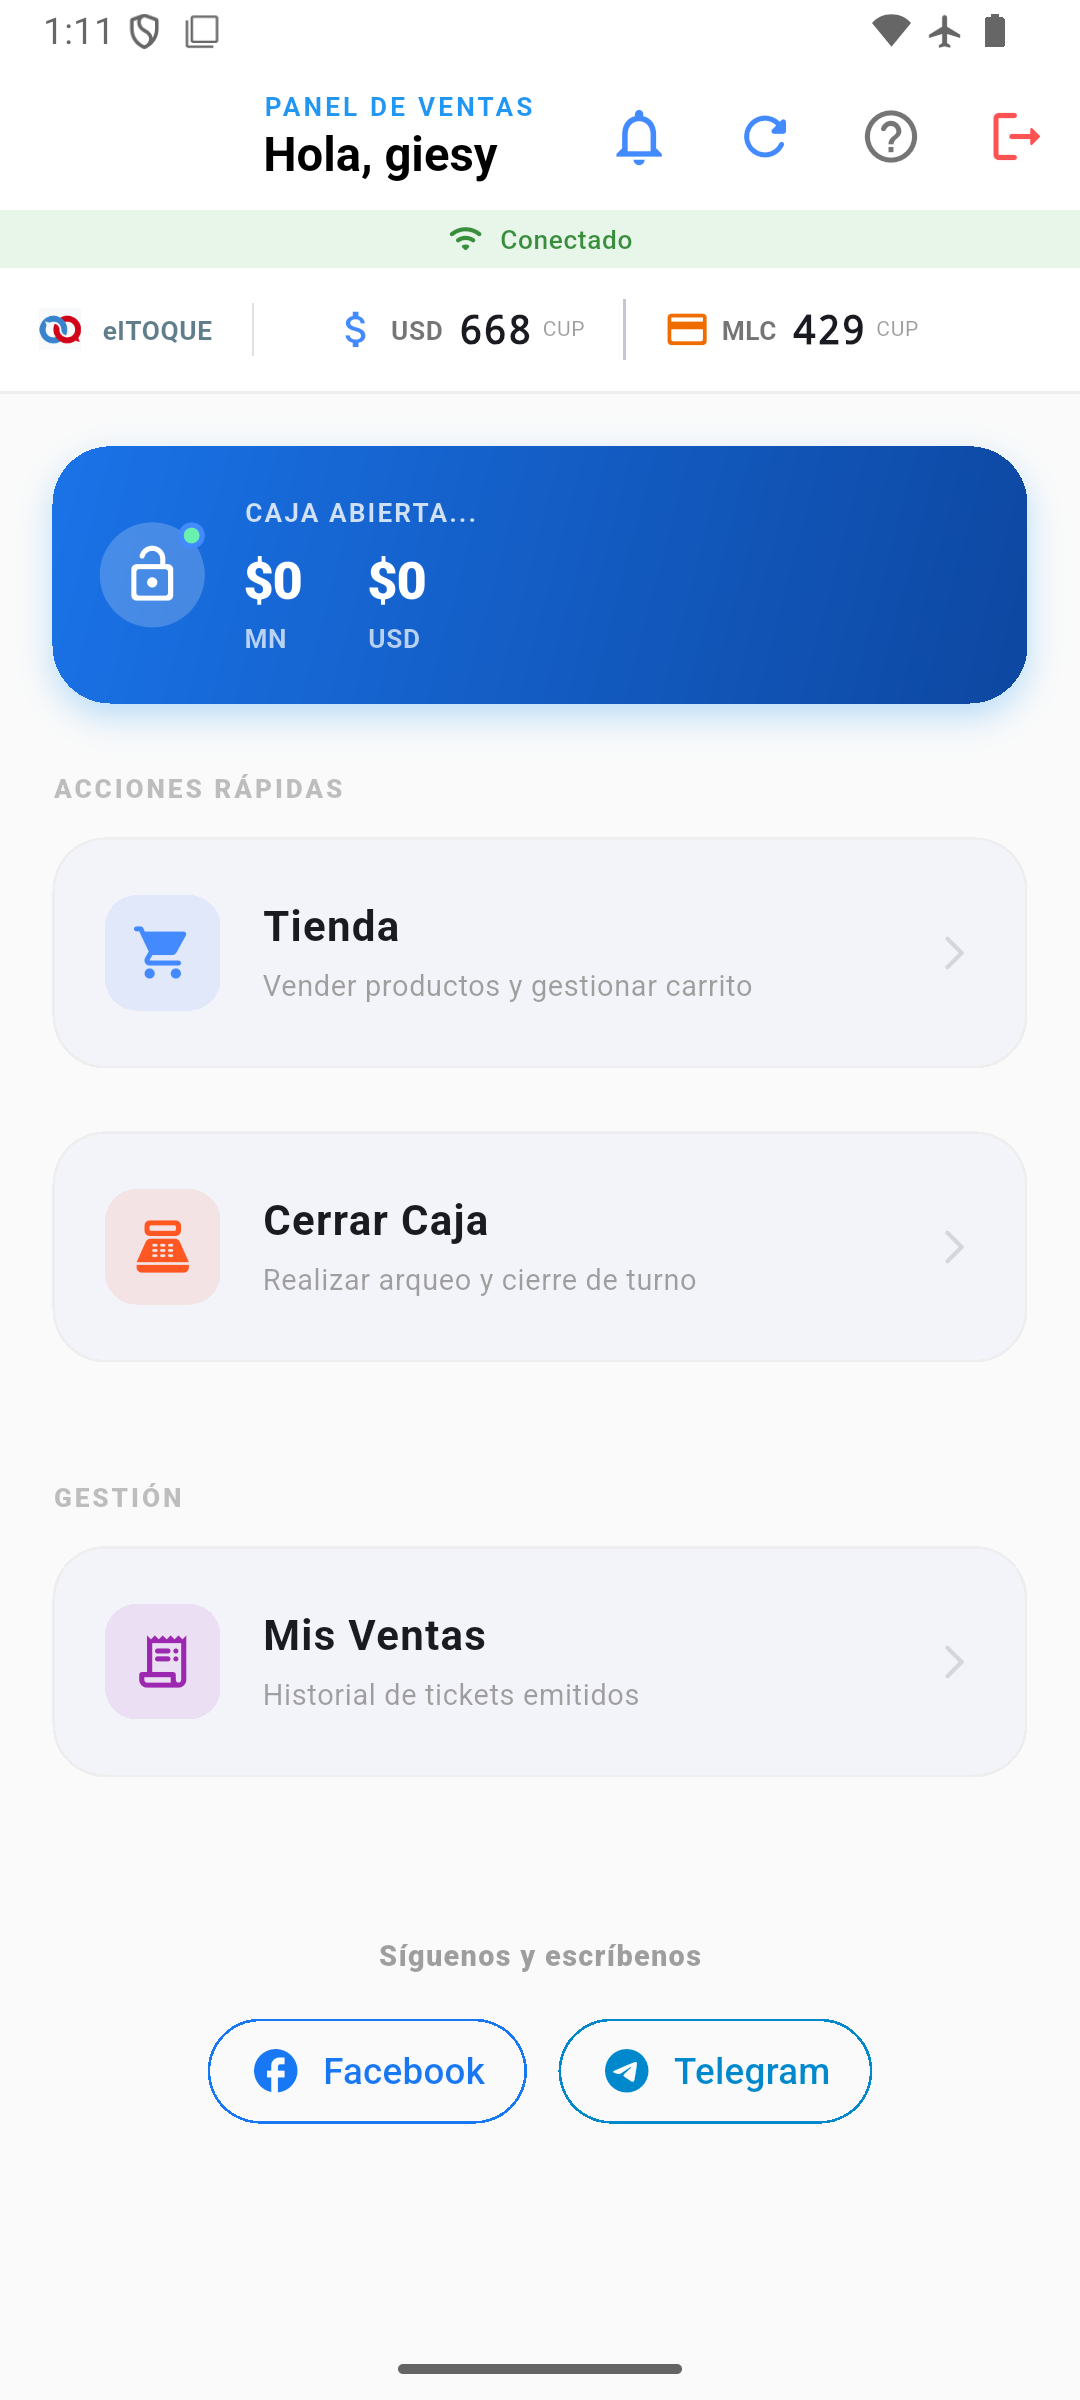
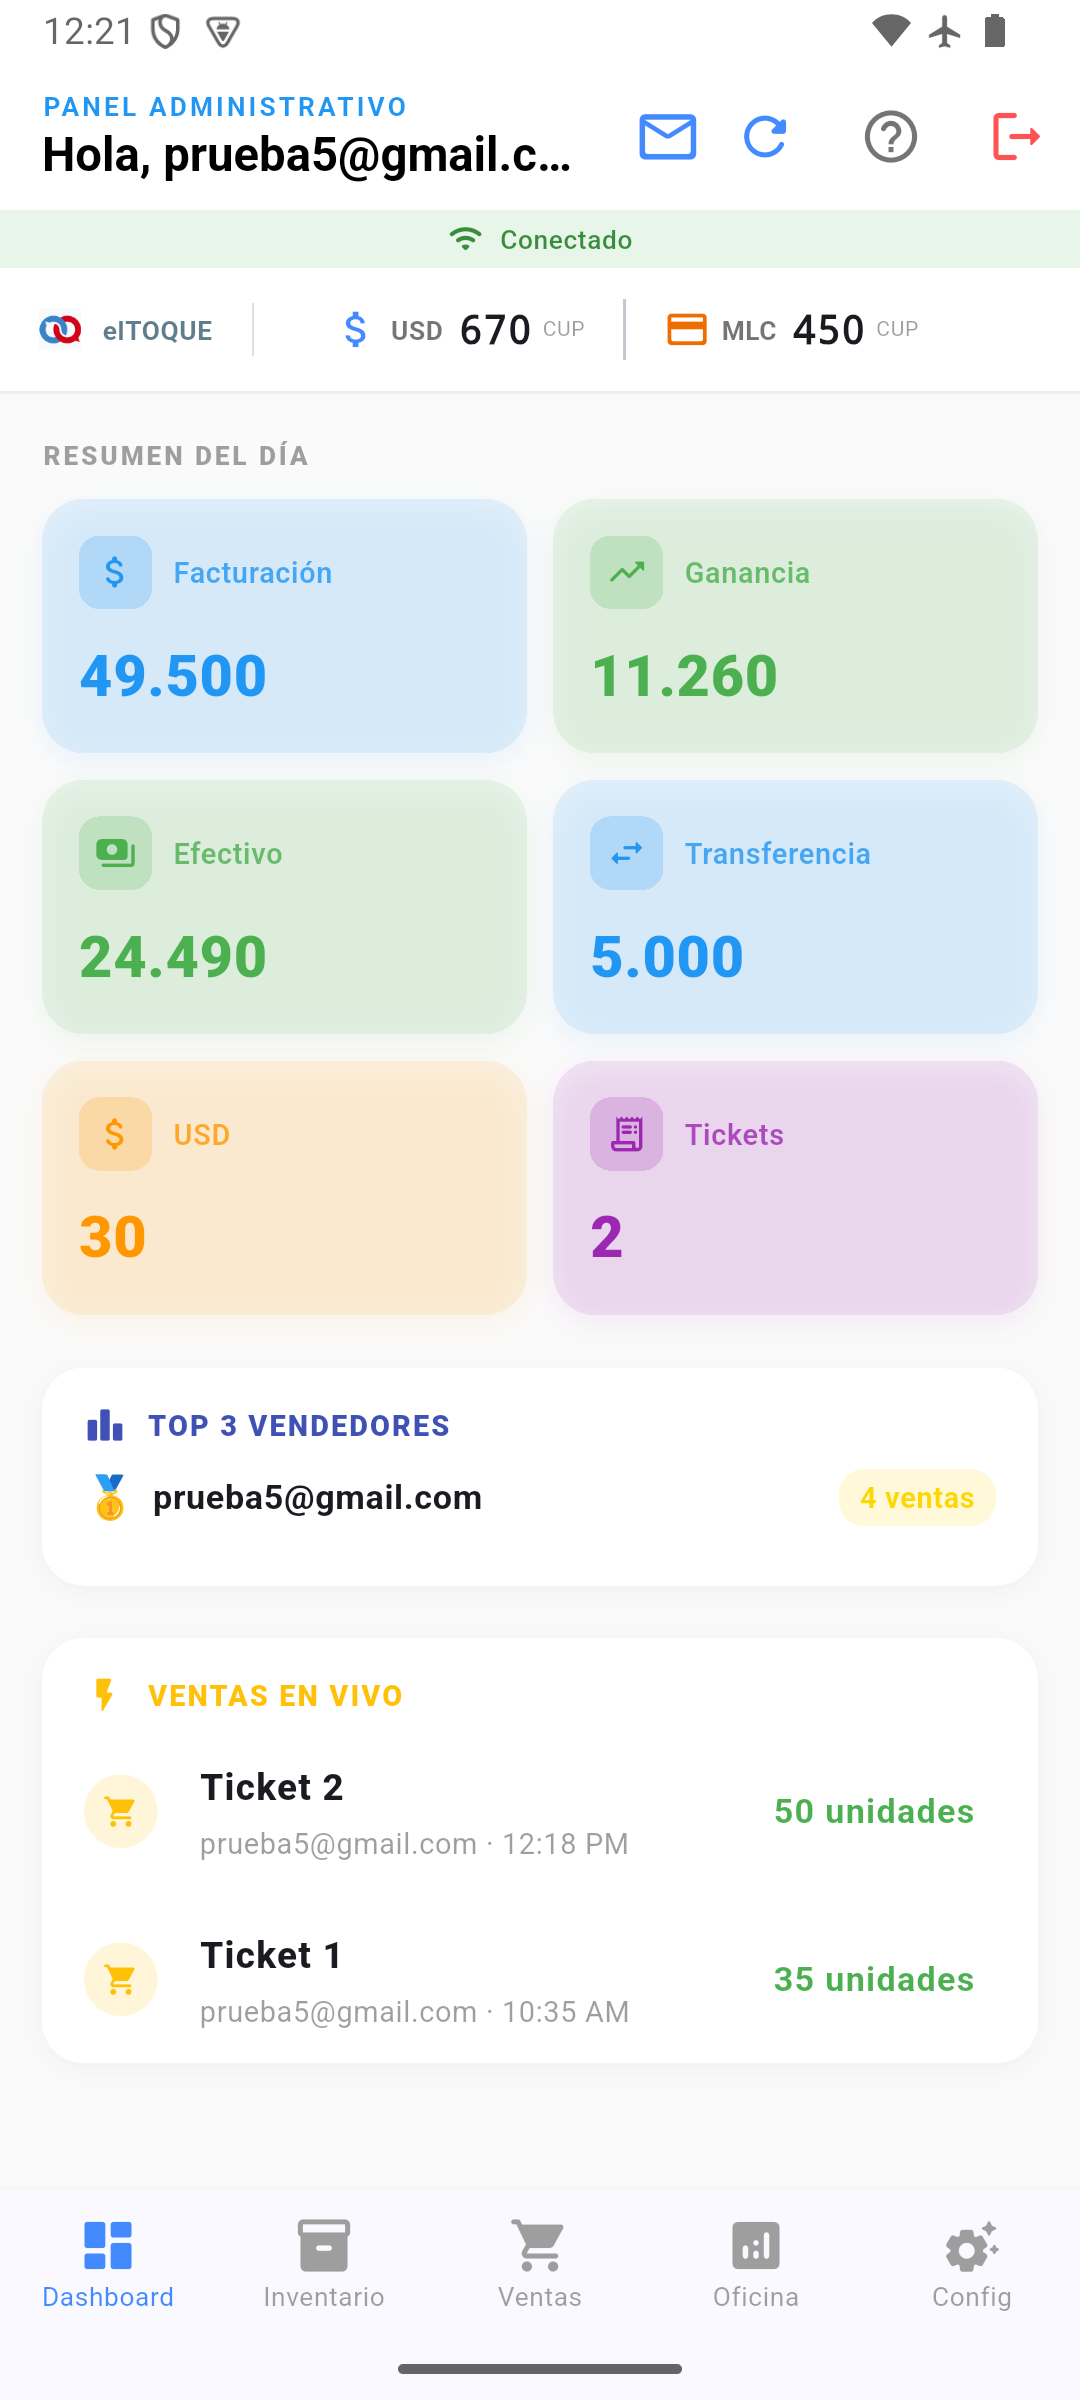
OK

diff --git a/index.html b/index.html
@@ -53,7 +53,7 @@
           <li><a href="#about">Acerca de...</a></li>
           <li><a href="#features">Módulos</a></li>
            <!-- <li><a href="#pricing">Pricing</a></li> -->
-          <li><a href="https://github.com/giesy85/KontaEngine/releases/download/release/app-release.apk" class="download-link"><i class="bi bi-download"></i> Descarga</a></li>
+          <li><a href="https://github.com/giesy85/konta-engine/releases/download/release/app-release.apk" class="download-link"><i class="bi bi-download"></i> Descarga</a></li>
         </ul>
         <i class="mobile-nav-toggle d-xl-none bi bi-list"></i>
       </nav>
@@ -76,7 +76,7 @@
             <h2>Tu negocio en tus manos con Konta</h2>
             <p>Sistema de punto de venta off-line con control de inventario y almacén, apertura/cierre de caja, reportes y más. Funciona con o sin internet.</p>
             <div class="d-flex mt-4 justify-content-center justify-content-md-start">
-              <a href="https://github.com/giesy85/KontaEngine/releases/download/release/app-release.apk" class="download-btn"><i class="bi bi-android"></i> <span>Descargar APK</span></a>
+              <a href="https://github.com/giesy85/konta-engine/releases/download/release/app-release.apk" class="download-btn"><i class="bi bi-android"></i> <span>Descargar APK</span></a>
             </div>
           </div>
         </div>
@@ -199,8 +199,12 @@
 
       <div class="container">
 
+        <div class="text-center mb-4 steps-img" data-aos="zoom-out">
+          <img src="assets/img/steps.png" alt="">
+        </div>
+
         <div class="row gy-4">
-          
+
           <div class="col-lg-4" data-aos="fade-up" data-aos-delay="100">
             <div class="card-item">
               <span>01</span>

diff --git a/starter-page.html b/starter-page.html
@@ -53,7 +53,7 @@
           <li><a href="index.html#about">About</a></li>
           <li><a href="index.html#features">Features</a></li>
           <li><a href="index.html#pricing">Pricing</a></li>
-          <li><a href="https://github.com/giesy85/KontaEngine/releases/download/release/app-release.apk" class="download-link"><i class="bi bi-download"></i> Descarga</a></li>
+          <li><a href="https://github.com/giesy85/konta-engine/releases/download/release/app-release.apk" class="download-link"><i class="bi bi-download"></i> Descarga</a></li>
         </ul>
         <i class="mobile-nav-toggle d-xl-none bi bi-list"></i>
       </nav>
